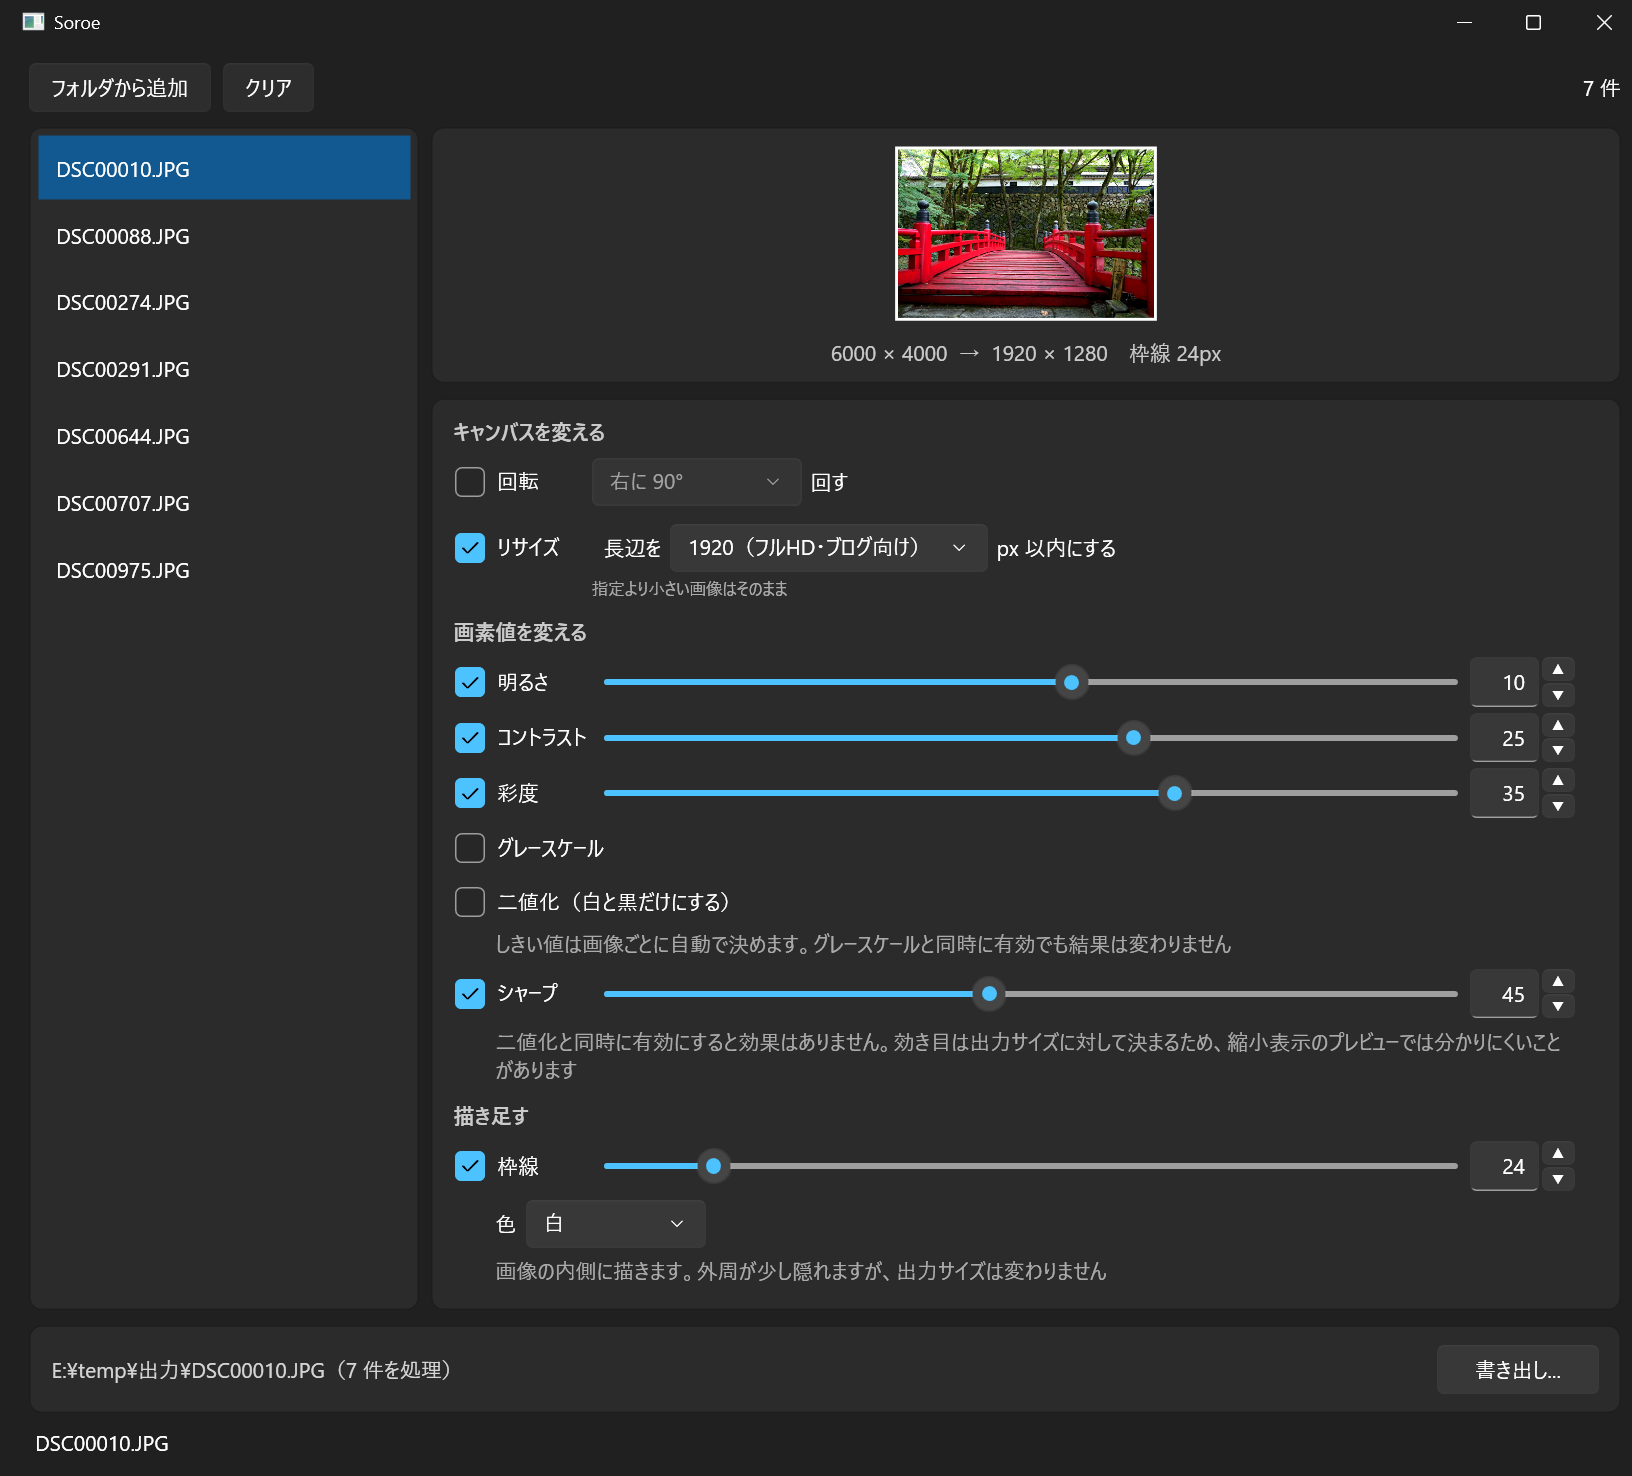
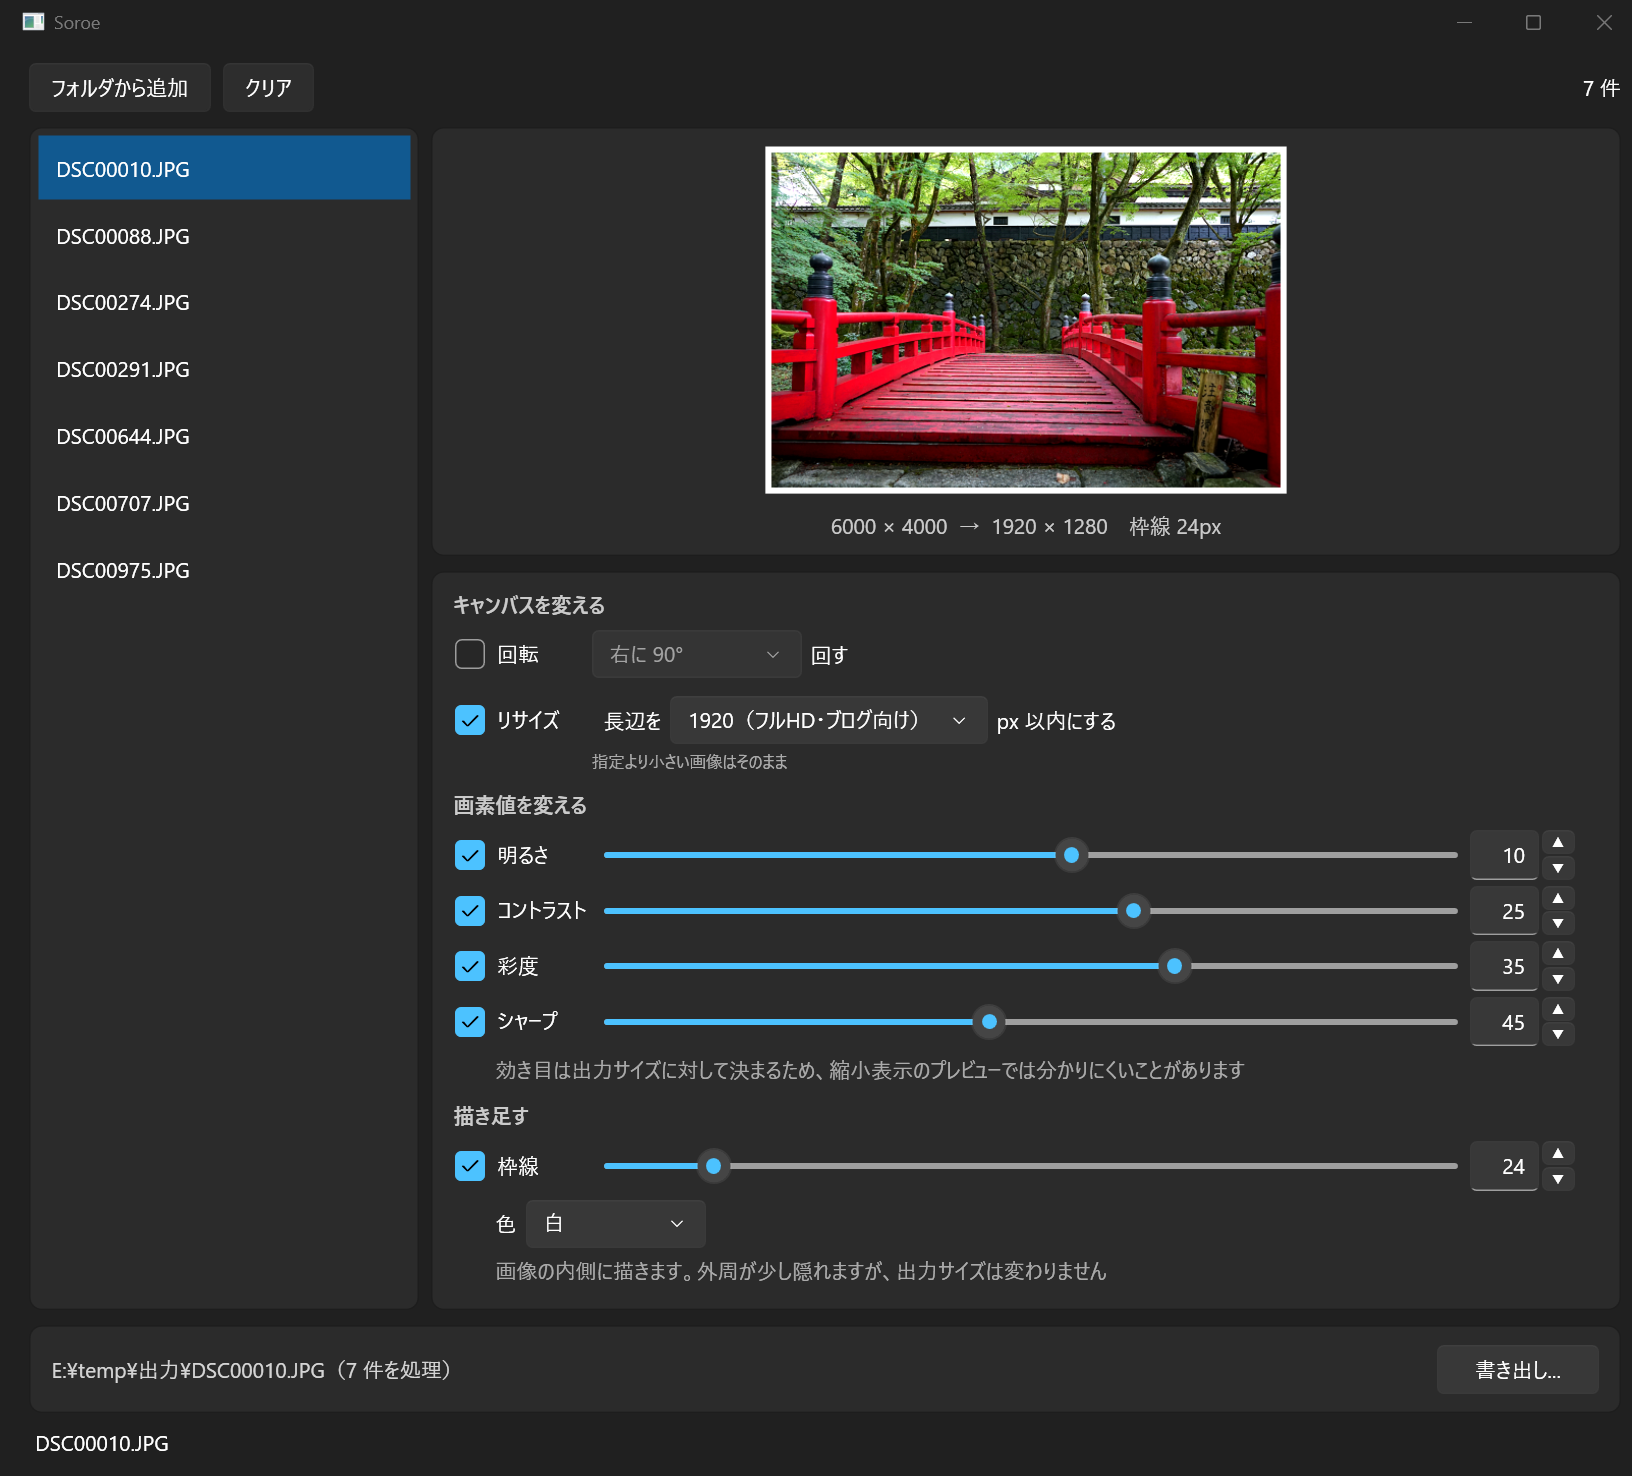
feat: グレースケールと二値化を UI から外す（処理と設定は残す）
調整パネルが縦を食ってプレビューが狭かった。二値化は案内文が 1 行付いて
いたので、2 項目分より多く空く。実測（DPI 150%・既定サイズ 1100x990）で
中身が 583.0 から 467.7 になり、プレビューは 205.7 から 321.0 へ 56% 広がった。

処理・設定モデル・適用順序（グレースケール 5、二値化 6）はそのまま残した。
番号も詰めていない。しきい値まわりの仕組み（canonical、stopBeforeBinarize、
経路の一致）にも触れていない。検証ハーネスは 1 行も変えていない。
グレースケールと二値化に触れる検証は 30 箇所あるが、すべて renderer.Encode か
設定モデルを直接使うもので、UI を前提にしたものは 1 つも無かった。

機能の後退は二値化だけ。グレースケールは「彩度 -100」と全画素一致することを
実測済みなので、彩度スライダーで同じ絵に到達できる。

公開前に行った。設定は自動保存されるため、公開後に外すと ON にして使っていた
人の settings.json にその設定が残り、処理はかかり続けるのに解除する手段が
無くなる。

保存・復元の対象からは外していない。settings.json を手で true にすると処理は
効き、UI には何も出ない。実地で確認済み（項目が無ければ OFF、true を書けば
保持される）。意図的な操作でしか到達せず、原則 3 とも整合し、将来 UI に戻す
ときに値が失われないので許容する。docs/decisions.md に記録した。

指示に無かったが必要だった追随。

- シャープの案内文が「二値化と同時に有効にすると効果はありません」と、
  UI から消える項目を参照していた。前半を落とした
- AGENTS.md の読み込み確認の 2 問目が「9 つの調整項目のうちどれの結果が
  変わるか」で、答えが二値化だったため成立しなくなった。「CanonicalEdge が
  出力を決める定数だとされているのはなぜか」に変え、UI の構成に依存しない
  設問にした。設問の作り方の注意も書き足した

既定サイズと割合は変えていない。測ったうえでの判断。

- 全項目が入る最小の窓高は 979 から 829 へ下がったが、829 ではプレビューが
  Reserve の 160 に張り付く。990 なら 321。項目を外した目的がプレビューを
  広げることなので下げない
- 割合 0.75 は現在は緩い（必要なのは 0.593）。ただし 0.60 / 0.65 / 0.75 の
  いずれでも既定サイズと最小サイズでの見え方は 1px も変わらない。既定では
  中身が収まるので割合が効かず、最小サイズでは Reserve が先に効くため。
  差が出る 1080p@150% 相当では 0.75 が最もパネルを見せる

スクリーンショットは 2 枚とも撮り直した（条件・写真は前回と同じ）。
alt も両方直した。1080p@150% 相当では 7 項目中 6 項目まで見え、
枠線だけがスクロールで届く。

diff --git a/src/Soroe/Views/MainWindow.xaml b/src/Soroe/Views/MainWindow.xaml
@@ -240,11 +240,14 @@
                         つまり割合を上げても、パネルが実際に必要とするまでプレビューは縮まない。
                         縮むのは中身が収まりきらない低い窓のときだけ。
 
-                        0.75 という値は、既定サイズ（1100x990）で 9 項目が収まる下限から決めた。
-                        実測で 9 項目の中身は 583.0 あり、見えている高さは
-                        割合 x (窓の高さ - 201.3)。0.70 では 552.2 しか見えず 30.8 はみ出した。
-                        なお最小サイズなど低い窓では Reserve のほうが先に効くため、
-                        0.70 から 0.75 へ上げてもそちらの見え方は変わらない。
+                        0.75 は元々「既定サイズで 9 項目が収まる下限」として決めた値。
+                        グレースケールと二値化を UI から外して中身が 583.0 から 467.7 になり、
+                        既定サイズで必要な割合は 0.593 まで下がったので、現在は緩い。
+                        それでも下げないのは、下げても見え方が変わらないため。実測で
+                        0.60 / 0.65 / 0.75 のいずれでも、既定サイズ（中身が収まるので割合が効かない）と
+                        最小サイズ（Reserve が先に効く）での結果は 1px も違わない。
+                        差が出るのは 1080p@150% 相当だけで、そこは 0.75 が最もパネルを見せる。
+                        詳細は docs/design.md「既定ウィンドウサイズ」。
                     -->
                     <ScrollViewer MaxHeight="{Binding ActualHeight, ElementName=PreviewAndPanel,
                                               Converter={StaticResource PanelHeightFraction},
@@ -262,8 +265,8 @@
                         <!--
                             調整パネルは 3 分類で区切る（docs/design.md「調整項目」）。
                               1. キャンバスを変える … 回転、リサイズ
-                              2. 画素値を変える     … 明るさ、コントラスト、彩度、
-                                                      グレースケール、二値化、シャープ
+                              2. 画素値を変える     … 明るさ、コントラスト、彩度、シャープ
+                                 （グレースケールと二値化は処理だけ残し、UI には出していない）
                               3. 描き足す           … 枠線
                         -->
                         <TextBlock Text="キャンバスを変える" Style="{StaticResource SectionHeaderStyle}" />
@@ -442,25 +445,11 @@
                                                      Value="{Binding Settings.Saturation.Value}" />
                         </Grid>
 
-                        <!-- ここから下は値を持たない。チェックボックスだけの行 -->
-                        <CheckBox Content="グレースケール"
-                                  Margin="0,0,0,4"
-                                  IsChecked="{Binding Settings.Grayscale.Enabled}" />
-
-                        <CheckBox Content="二値化（白と黒だけにする）"
-                                  Margin="0,0,0,0"
-                                  IsChecked="{Binding Settings.Binarize.Enabled}" />
-
                         <!--
-                            二値化はそれ自体が輝度へ落とすので、グレースケールと同時に
-                            有効でも結果は変わらない。ここで設定を自動で切り替えたりは
-                            しない（触っていない設定が勝手に変わるほうが分かりにくい）。
-                            代わりに文字で断る。状態に依存しないので常時出す。
+                            グレースケールと二値化は UI に出していない。処理と設定モデルは
+                            残してあり、適用順序（5 と 6）も番号を詰めていない。
+                            外した理由は docs/decisions.md「UI から外したもの」を参照。
                         -->
-                        <TextBlock Text="しきい値は画像ごとに自動で決めます。グレースケールと同時に有効でも結果は変わりません"
-                                   Margin="28,2,0,8"
-                                   Opacity="0.6"
-                                   TextWrapping="Wrap" />
 
                         <Grid Style="{StaticResource AdjustmentRowStyle}">
                             <Grid.ColumnDefinitions>
@@ -491,11 +480,12 @@
                         </Grid>
 
                         <!--
-                            2 つとも「効いていないように見える」場面があるので断る。
-                            二値化との関係は実測でゼロ（3600 万要素すべて不変）。
-                            縮小表示の件は、シャープが空間フィルタであることから来る一般的な制約。
+                            「効いていないように見える」場面があるので断る。
+                            シャープが空間フィルタであることから来る一般的な制約。
+                            二値化への言及は外した。UI に出していない項目を参照しても読む人に伝わらない
+                            （処理としての関係は docs/design.md に残してある）。
                         -->
-                        <TextBlock Text="二値化と同時に有効にすると効果はありません。効き目は出力サイズに対して決まるため、縮小表示のプレビューでは分かりにくいことがあります"
+                        <TextBlock Text="効き目は出力サイズに対して決まるため、縮小表示のプレビューでは分かりにくいことがあります"
                                    Margin="28,2,0,12"
                                    Opacity="0.6"
                                    TextWrapping="Wrap" />

diff --git a/docs/decisions.md b/docs/decisions.md
@@ -59,6 +59,41 @@
 | 設定の項目ごとのマージ（多重起動時） | 項目単位の更新時刻と競合解決が要る。機能の価値に対して重すぎる | 「多重起動時の既知の制約」 |
 | 名前付きプリセットの UI（第 2 段） | 自動保存・復元で体感価値の大半が得られている。**公開後の要望待ち**（実際に使って設定を行き来する場面が想定できなかった） | 「プリセット」 |
 
+## UI から外したもの
+
+**グレースケールと二値化は UI に出していない。処理と設定モデルは残してある。**
+適用順序（グレースケール 5、二値化 6）も番号を詰めていない。
+
+外した理由は**縦を食っていたこと**。調整パネルが縦を占めてプレビューが狭かった。
+二値化は案内文が 1 行付いていたので、2 項目分より多く空く。実測（DPI 150%・
+既定サイズ 1100x990）で**中身が 583.0 から 467.7 になり、プレビューは 205.7 から
+321.0 へ 56% 広がった。**
+
+機能の後退は次のとおり。
+
+- **グレースケールは後退しない。** 「彩度 -100」と「グレースケール ON」が全画素
+  一致することを実測済みで、ハーネスに常設してある。彩度スライダーで同じ絵に到達できる
+- **二値化は代替が無いので機能が減る。** ただし元々「本領は書類スキャンで写真向けでの
+  出番は少なめ。実装コストがほぼゼロだから隣に置く程度なら邪魔にならない」という
+  位置づけで入れたもので、**「縦を食う」という形でその前提が崩れた**。加えて、
+  細かい白黒は縮小で潰れるため、**小さいプレビューで見た印象と実際の出力が最も
+  食い違いやすい項目**でもあった
+
+**公開後ではなく公開前に行った。** 設定は自動保存されるため、公開後に外すと、
+ON にして使っていた人の `settings.json` にその設定が残り、**処理はかかり続けるのに
+解除する手段が無くなる。**
+
+### 既知の状態: 設定ファイルを直接編集すれば有効になる
+
+保存・復元の対象からは外していないので、`settings.json` の該当項目を手で `true` に
+書き換えると**処理は効く。UI には何も出ない。** 実地で確認済み（項目が無ければ OFF、
+`true` を書けば保持される）。
+
+意図的な操作でしか到達しないこと、原則 3（設定はデータとして表現する）と整合すること、
+将来 UI に戻すときに値が失われないことから、**この状態を許容する。**
+読み込み時に強制 OFF にすると、`Overwrite` と同じ「保存しない項目」の特殊扱いが
+増えるうえ、`Clone`・保存往復・保存トリガの検証がそのまま働かなくなる。
+
 ## 配布物に含めないもの
 
 - **`opencv_videoio_ffmpeg4130_64.dll`（28.6MB）を zip に入れない。** OpenCvSharp の runtime パッケージに入ってくるが、**このアプリは動画を扱わないので使わない。**

diff --git a/AGENTS.md b/AGENTS.md
@@ -36,11 +36,15 @@
 次を尋ね、答えられなければ読ませてから始めること。
 
 - 適用順序の 8 番目は何か（答えは [docs/design.md](docs/design.md) の「適用順序は固定」）
-- `CanonicalEdge` を変えると、9 つの調整項目のうちどれの結果が変わるか（答えは [docs/pitfalls.md](docs/pitfalls.md) の「出力を決める定数と、経路の一致」）
+- `CanonicalEdge` は性能の調整値ではなく「出力を決める定数」だとされている。なぜか（答えは [docs/pitfalls.md](docs/pitfalls.md) の「出力を決める定数と、経路の一致」）
 - 原則 2 に関わるテストは、どこまでやったら完成か（答えは本ファイルの「コーディング規約」）
 
 3 問目は本ファイル、1・2 問目は `docs/` を読まないと答えられない。**答えをここに
 書かないのは、書くとこの節を読むだけで答えられてしまうため。**
+
+**設問は仕組みを問う形にすること。**「どの調整項目が」のように UI の構成に依存する
+設問は、項目が増減するたびに直さなければならなくなる（実際、グレースケールと二値化を
+UI から外したときに 2 問目が成立しなくなった）。
 
 ---
 
